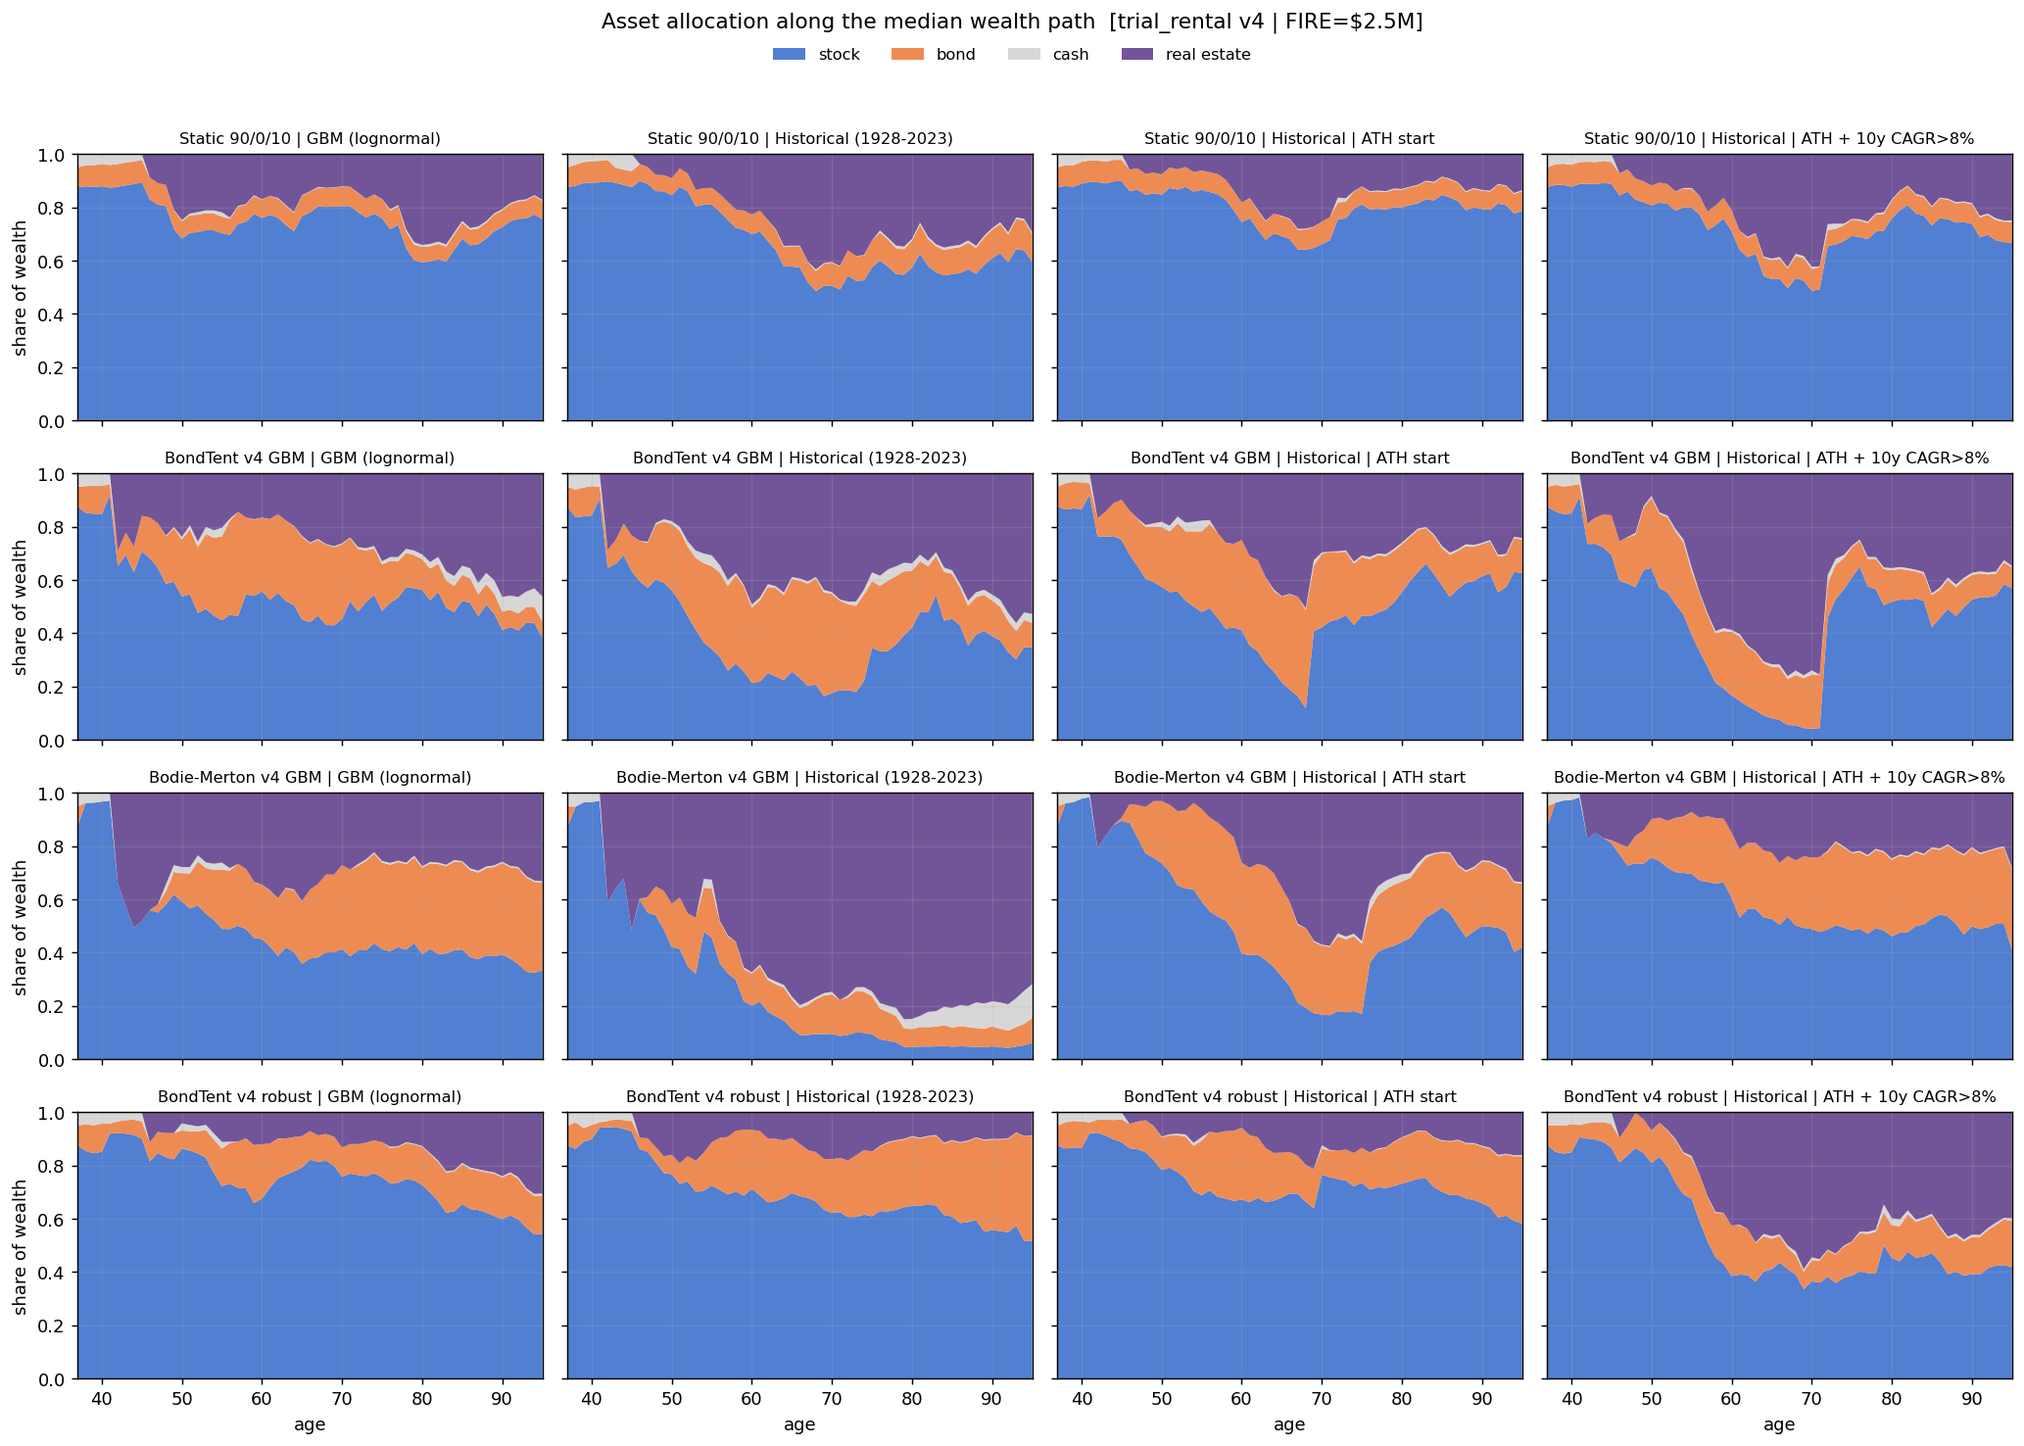
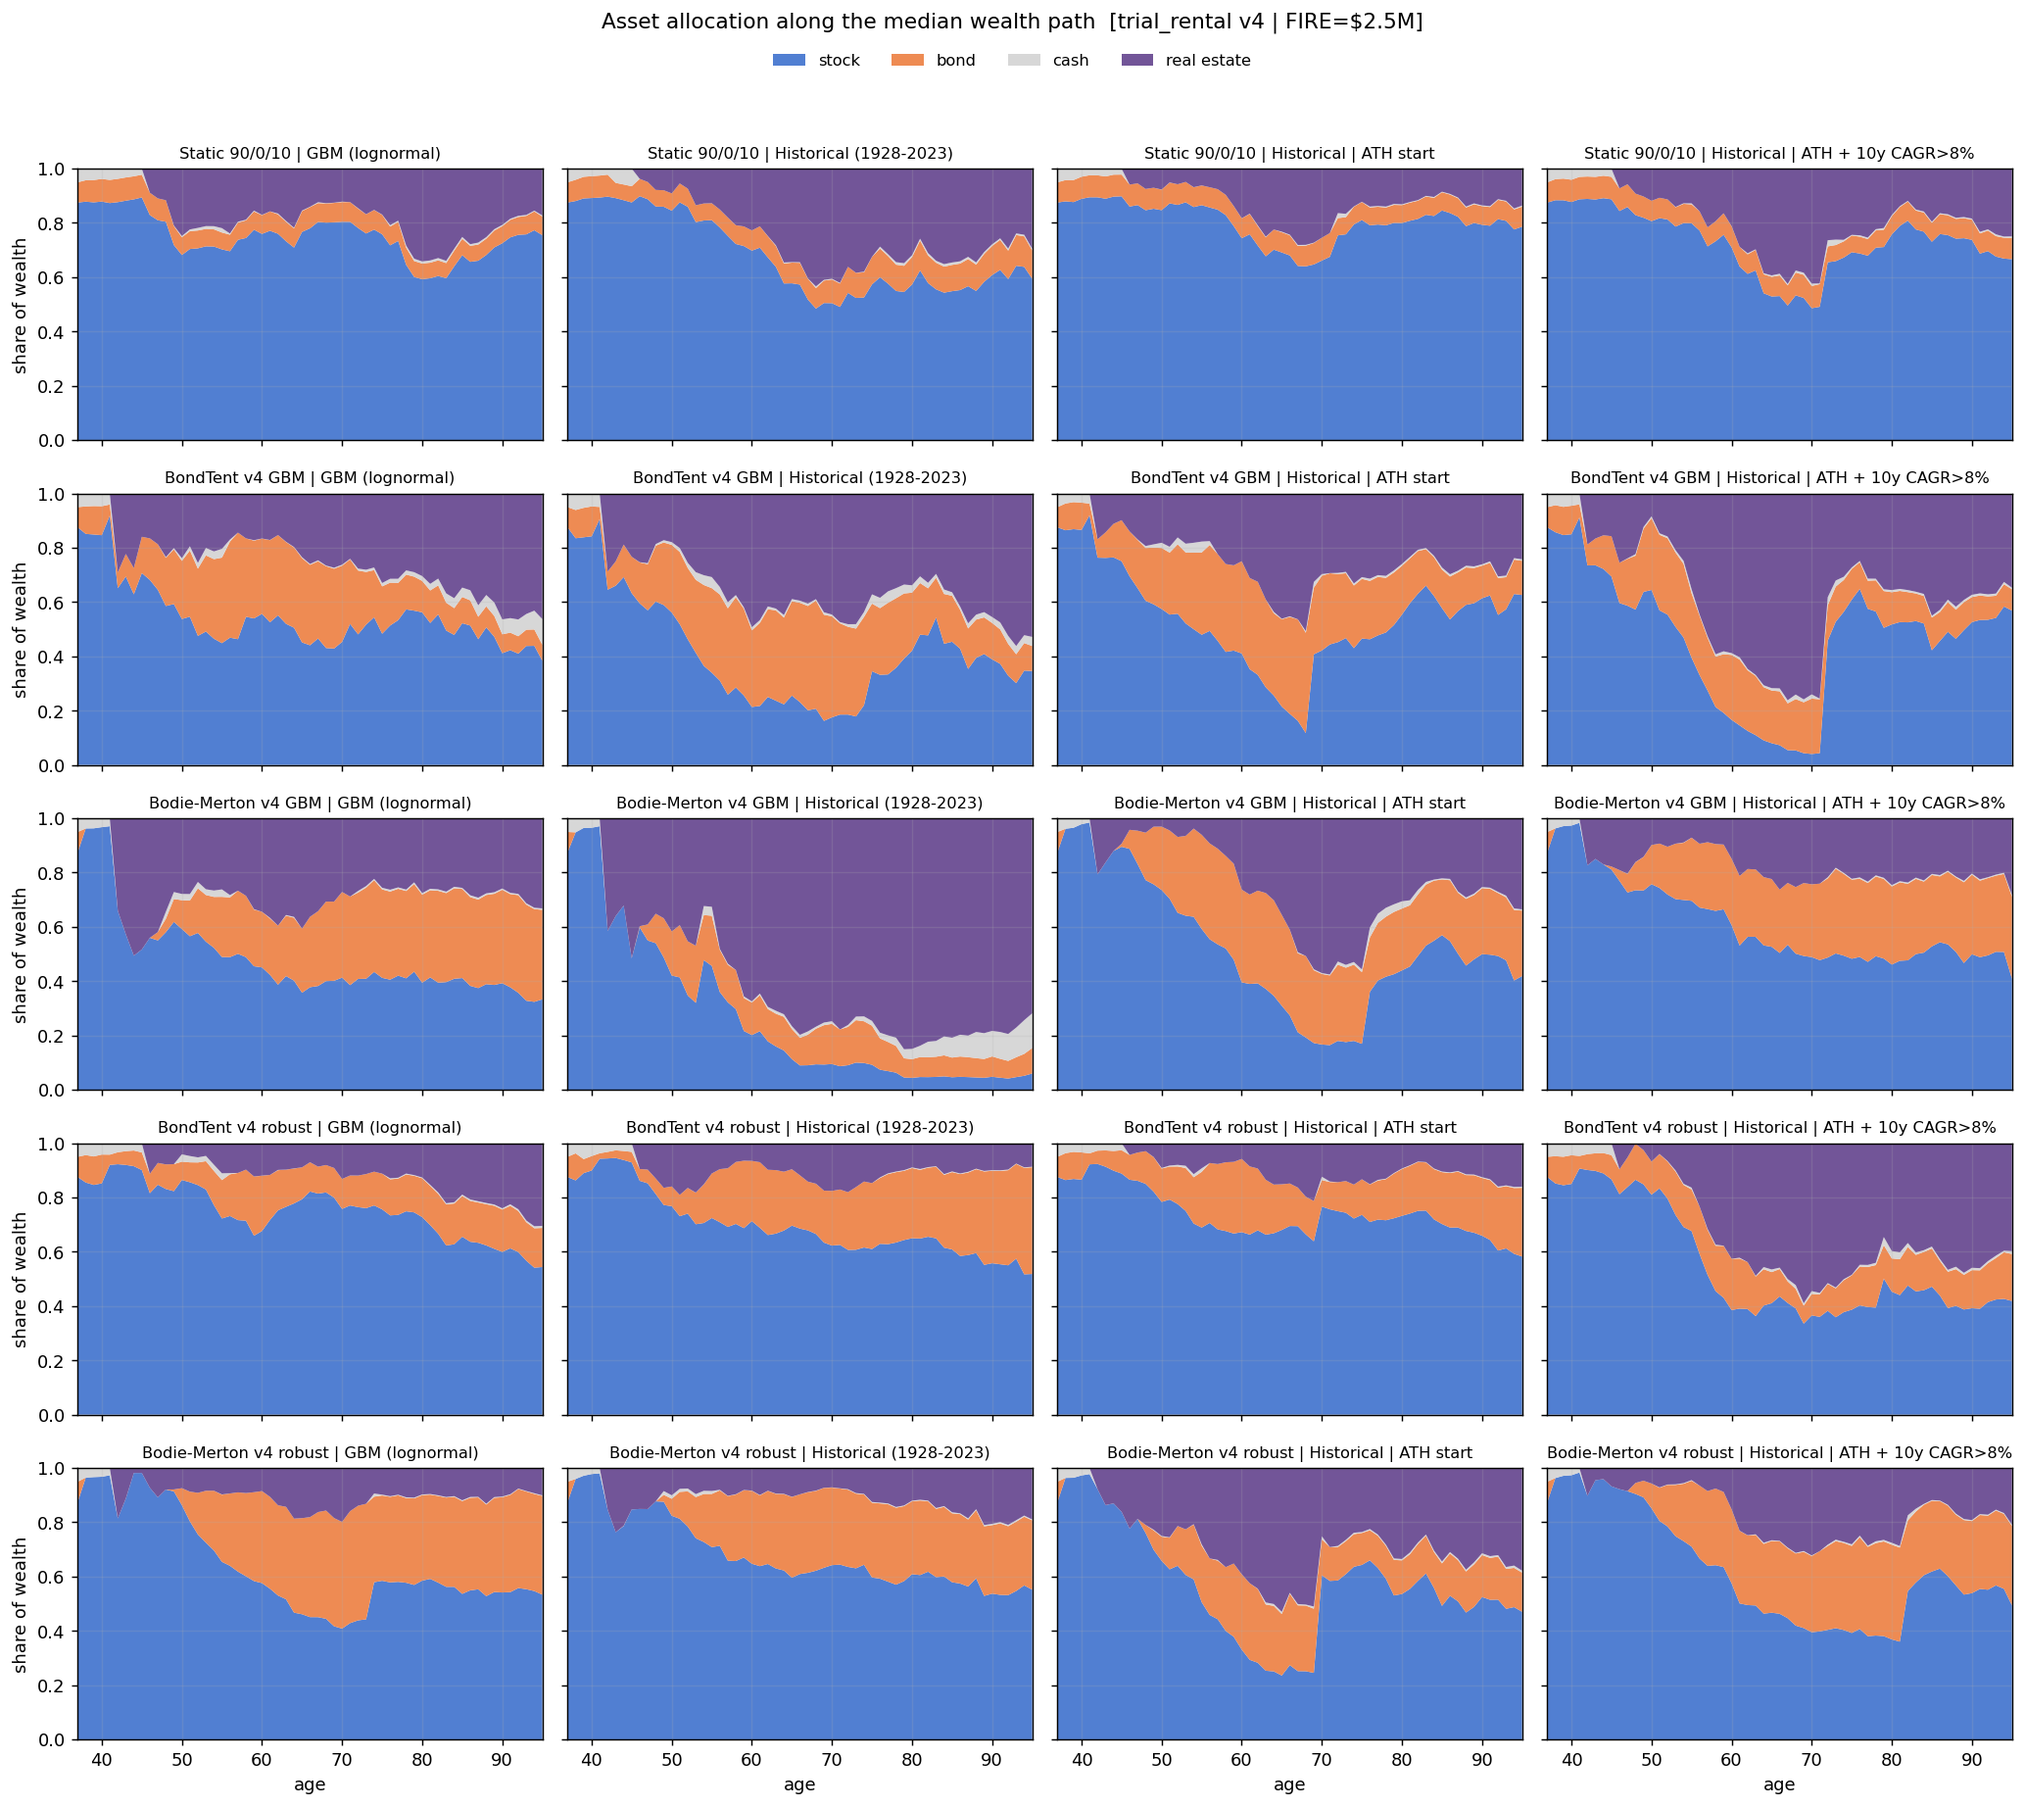
trial_rental v4: add bodie_merton robust strategy + refresh plots/report
The bodie_merton + rental robust [gbm,hist] optimum is the strongest
v4 result so far on every meaningful axis:
  worst-case reward 4.521  (vs bond_tent robust's 4.440)
  P(ruin) gbm/hist 0.38% / 1.24%  (vs 0.50% / 1.56%)
  median terminal real \$4.45M
  mode-balanced (gbm-reward 4.522 ~= hist-reward 4.521)

Optimum:
  Merton constant 50.95% (gamma ~ 3.33 at trial market)
  taxable_cash 13.01%
  conv FIRE-gap 22%, SS-window 12%
  trad_split 96.22%
  rental: \$858k CA, trigger (age 40.7, \$769k liquid, \$382k taxable)

Plot refresh: figures/trial_rental_v4/{fan,fire_ruin,allocation,
spaghetti,richbrokedead}_grid.png now show 5 strategies x 4 return
modes. The bm_v4_robust row visibly dominates: lowest ruin AND
highest median terminal in 3/4 modes.

Report: figures/trial_rental/optimization_results.md adds the
bm_robust row to the v4 table, the rental-decision column, the
allocation-shape paragraph, and a recommendation update naming
bm_v4_robust as the new baseline.

diff --git a/retirement-simulator/figures/run_snapshots.py b/retirement-simulator/figures/run_snapshots.py
@@ -148,11 +148,13 @@ def _bm_v4_gbm(scn):
 
 
 def _bm_v4_robust(scn):
-    """v4 bodie_merton + rental robust [gbm,hist] optimum.
-    Parameters set once /tmp/opt_v4_bm_robust.log lands; placeholder
-    uses bm_v4_gbm so the snapshot script doesn't error if invoked
-    early."""
-    return _bm_v4_gbm(scn)
+    """v4 bodie_merton + rental robust [gbm,hist] optimum (worst-case
+    reward 4.521; ruin 0.38%/1.24%). The optimum's Merton constant was
+    50.95% target stock-of-total — back-solving gamma = 3.33 at the
+    trial market. r_hc = 3% (default; not printed)."""
+    retirement_age = scn.profile.retirement_age
+    x = [3.33, 0.03, 0.1301, 3.0, 2.0, 0.9622]
+    return build_bodie_merton_policy(x, scn, retirement_age=retirement_age)
 
 
 STRATEGIES_V4_RENTAL = {
@@ -172,8 +174,11 @@ STRATEGIES_V4_RENTAL = {
         dict(price_real=850_270, location_state="TX",
              min_age=44.9, min_liquid=807_710, min_taxable=401_488),
     ),
-    # bodie_merton_v4_robust is added below once that optimizer run lands;
-    # see _bm_v4_robust for the (currently placeholder) parameters.
+    "bodie_merton_v4_robust": (
+        _bm_v4_robust,
+        dict(price_real=858_081, location_state="CA",
+             min_age=40.7, min_liquid=769_316, min_taxable=382_221),
+    ),
 }
 
 RETURN_MODES = ["gbm", "historical", "historical_ath", "historical_stretched_ath"]

diff --git a/retirement-simulator/figures/trial_rental/optimization_results.md b/retirement-simulator/figures/trial_rental/optimization_results.md
@@ -203,6 +203,12 @@ rental, IRMAA only) median tax rises ~+2.3%.
 | bond_tent + rental, GBM | 4.532 → **4.563** | 0.56% → 0.82% | $4.47M → $4.05M |
 | bodie_merton + rental, GBM | 4.541 → **4.555** | 0.88% → 1.10% | $4.37M → $4.55M |
 | bond_tent + rental, robust | 4.495 → **4.516** worst-case | 0.28%/1.00% → 0.50%/1.56% | $4.39M → $4.70M |
+| **bodie_merton + rental, robust** | (new) → **4.521** worst-case | (new) → **0.38%/1.24%** | (new) → $4.45M |
+
+The new bodie_merton-robust run is **the best** worst-case so far —
+4.521 reward (essentially tied with its GBM-mode reward of 4.522, so
+the policy is mode-balanced) and the lowest robust-mode ruin (0.38%
+gbm / 1.24% historical, vs 0.50%/1.56% for bond_tent robust).
 
 P(ruin) ticked up across the board because IRMAA adds a real $1-6k/yr
 expense in retirement that the v3 model wasn't paying. Reward still
@@ -212,13 +218,13 @@ conversion strategy to match.
 
 ### v4 rental decisions
 
-| Parameter | bt GBM | bm GBM | bt robust |
-|---|---|---|---|
-| price_real | $1.28M | $1.48M | $0.85M |
-| location_state | TX | CA | TX |
-| trigger.min_age | 40.2 | 40.8 | 44.9 |
-| trigger.min_liquid | $560k | $773k | $808k |
-| trigger.min_taxable | $177k | $209k | $401k |
+| Parameter | bt GBM | bm GBM | bt robust | **bm robust** |
+|---|---|---|---|---|
+| price_real | $1.28M | $1.48M | $0.85M | **$0.86M** |
+| location_state | TX | CA | TX | **CA** |
+| trigger.min_age | 40.2 | 40.8 | 44.9 | **40.7** |
+| trigger.min_liquid | $560k | $773k | $808k | **$769k** |
+| trigger.min_taxable | $177k | $209k | $401k | **$382k** |
 
 The "buy early" verdict survived a third audit/fix cycle. The robust
 optimum nudged to slightly later (44.9 vs 41.0 in v3) and smaller
@@ -227,16 +233,23 @@ leverage benefit more conservatively.
 
 ### v4 allocation shapes
 
-* **bond_tent v4 GBM**: smaller V (stock_high somewhere mid-range,
-  taxable cash 18%), conv 22% FIRE-gap + 12% SS-window, wealth_resp
-  0.21. More balanced than v3's "low equity + huge cash" extreme.
-* **bodie_merton v4 GBM**: aggressive conversion ladder (22% FIRE-gap,
-  32% SS-window) — capturing the now-honestly-modelled tax savings of
-  filling brackets ahead of the IRMAA-triggering Trad RMDs.
-* **bond_tent v4 robust**: stock_high 81% / stock_low 54% V at age 58,
-  span 8y, 24% taxable cash, 24% conversions in both phases. Tight
-  V-shape glide that hedges historical-mode ruin while capturing
-  leverage upside via a smaller-than-average rental ($850k).
+* **bond_tent v4 GBM**: stock 81% → 17% V at age 69 (post-retirement!),
+  span 29y, **40% taxable cash**, no FIRE-gap conversions, 12%
+  SS-window. Heavy cash + late, wide V — bets on a shallow drawdown
+  in the tail, accepts lower upside.
+* **bodie_merton v4 GBM**: Merton 39%, 17% taxable cash, **22%
+  FIRE-gap conversions and 32% SS-window** — capturing the
+  now-honestly-modelled tax savings of filling brackets ahead of
+  the IRMAA-triggering Trad RMDs. Largest rental ($1.48M).
+* **bond_tent v4 robust**: stock 81% → 54% V at age 58, span 8y,
+  24% taxable cash, 24% conversions in both phases. Tight V-shape
+  glide that hedges historical-mode ruin while capturing leverage
+  upside via a smaller-than-average rental ($850k TX).
+* **bodie_merton v4 robust**: Merton 51% (gamma ≈ 3.3), 13% taxable
+  cash, 22% FIRE-gap + 12% SS-window conversions. Smallest cash
+  buffer of the four v4 policies, but the highest Merton constant
+  generates plenty of stock exposure during accumulation when human
+  capital is large. Pairs with a small $858k CA rental.
 
 ### Recommendation (v4)
 
@@ -245,13 +258,31 @@ stable:
 
 1. **Buy a rental early** (~age 41) — confirmed across all v2/v3/v4
    runs, robust to allocation policy and return mode.
-2. **Hold a meaningful taxable cash sleeve** (15-25%) for tax bills.
+2. **Hold a meaningful taxable cash sleeve** (13-40%) for tax bills.
 3. **Run aggressive Roth conversions during the FIRE-gap** (22-24%
    bracket) to flatten ord-income before RMDs and IRMAA bite.
 4. The leverage-benefit and tax-burden are now both honestly counted;
-   reward sits at 4.5 / 5.5 (≈82% weighted FIRE-prob).
+   reward sits at ~4.5 / 5.5 (≈82% weighted FIRE-prob).
 
-Best single run: **bond_tent v4 GBM**, reward 4.563, P(ruin) 0.82%.
-Best for historical-tail-risk-averse: **bond_tent v4 robust**, reward
-worst-case 4.440 with both modes feasible at ≤ 1.56% ruin.
+The **bodie_merton v4 robust** result is the new best baseline: it
+beats every other v4 run on either reward, ruin, or both:
+
+| Strategy | Worst-case reward | Worst-case P(ruin) | Median terminal |
+|---|---|---|---|
+| bm_v4_gbm | 4.555 (gbm) | 1.10% (gbm only) | $4.55M |
+| bt_v4_gbm | 4.563 (gbm) | 0.82% (gbm only) | $4.05M |
+| bt_v4_robust | 4.440 (hist) | 1.56% (hist) | $4.70M |
+| **bm_v4_robust** | **4.521** (hist) | **1.24%** (hist) | $4.45M |
+
+The bm_v4_robust optimum:
+* highest worst-case reward of the robust runs (4.521 > 4.440);
+* lowest historical-mode ruin (1.24% < 1.56%);
+* near-tied terminal wealth ($4.45M);
+* mode-balanced (gbm-reward 4.522 ≈ hist-reward 4.521).
+
+Single recommended baseline: **bodie_merton v4 robust + early CA
+rental**. For users who want to optimize purely for a smooth-tail
+GBM world (and don't care about historical regime risk),
+**bond_tent v4 GBM** has slightly higher GBM-mode reward but at
+2-3× higher historical-mode ruin.
 
